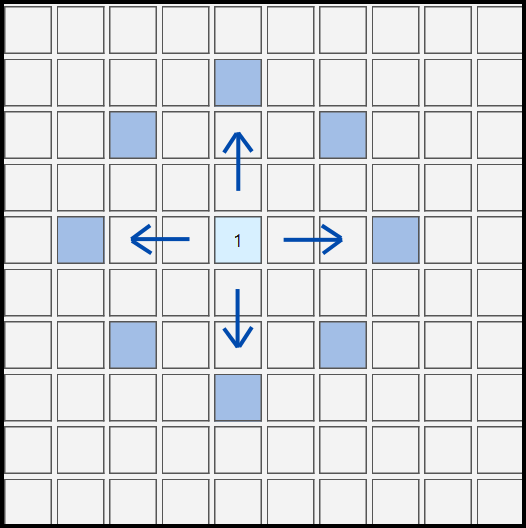
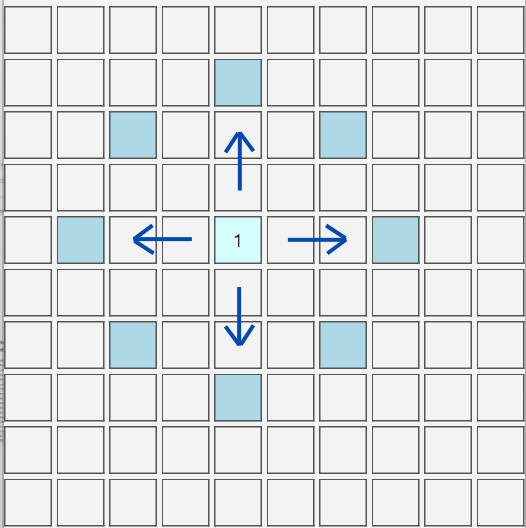
Fix typo

diff --git a/Grid100Game/data/Instructions.html b/Grid100Game/data/Instructions.html
@@ -18,10 +18,10 @@
 			<img src=":/images/streight_move.png" width="250">
 		</p>
 		<p>
-		       Or skip 1 cell when moving diagnoly.
+		       Or skip 1 cell when moving diagonally.
 		</p>
 		<p>
-			<img src=":/images/diagnal_move.png" width="250">
+			<img src=":/images/diagonal_move.png" width="250">
 		</p>
     </li>
 
